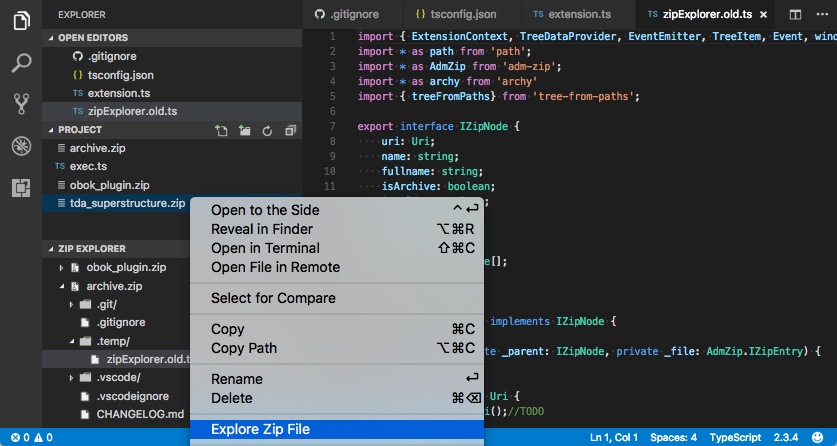
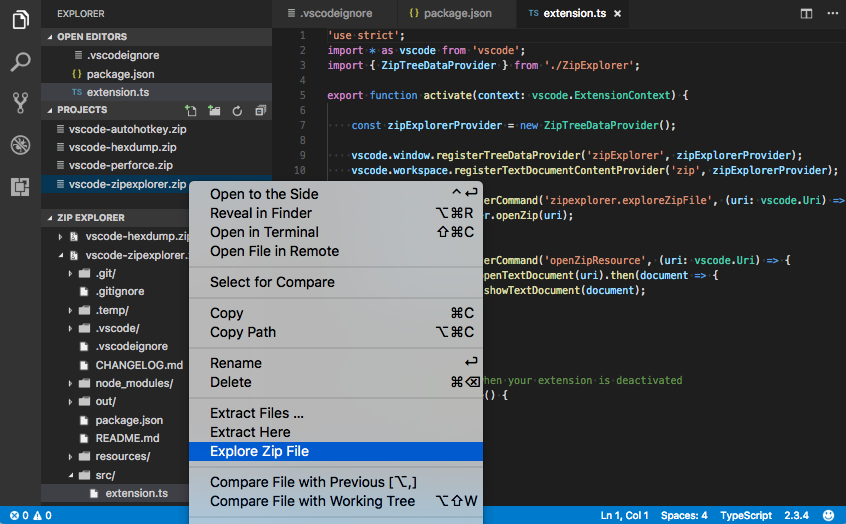
version 0.2.0

Changed region(s): [[0.0, 0.0, 1.0, 1.0]]

diff --git a/README.md b/README.md
@@ -4,11 +4,19 @@ Display the content of a Zip file in a Tree Explorer
 
 ## Features
 
+### Explore
 ![screenshot](images/screenshot.png)
 
 1. Right-click on a file with a `.zip` extension and select `Explore Zip File`
 2. Browse the content of the Zip file in the `Zip Explorer` section
 3. Click on a file node to display its content
+
+### Extract
+![context](images/context.png)
+
+1. Right-click on an element in the `Zip Explorer`
+2. Select `Extract Element`
+3. Specify the path where to extract
 
 ## Requirements
 

diff --git a/CHANGELOG.md b/CHANGELOG.md
@@ -1,5 +1,9 @@
 # Change Log
 
+## [0.2.0] - 2017-06-20
+
+- Extract functionalities
+
 ## [0.1.1] - 2017-06-14
 
 - Windows fixes
